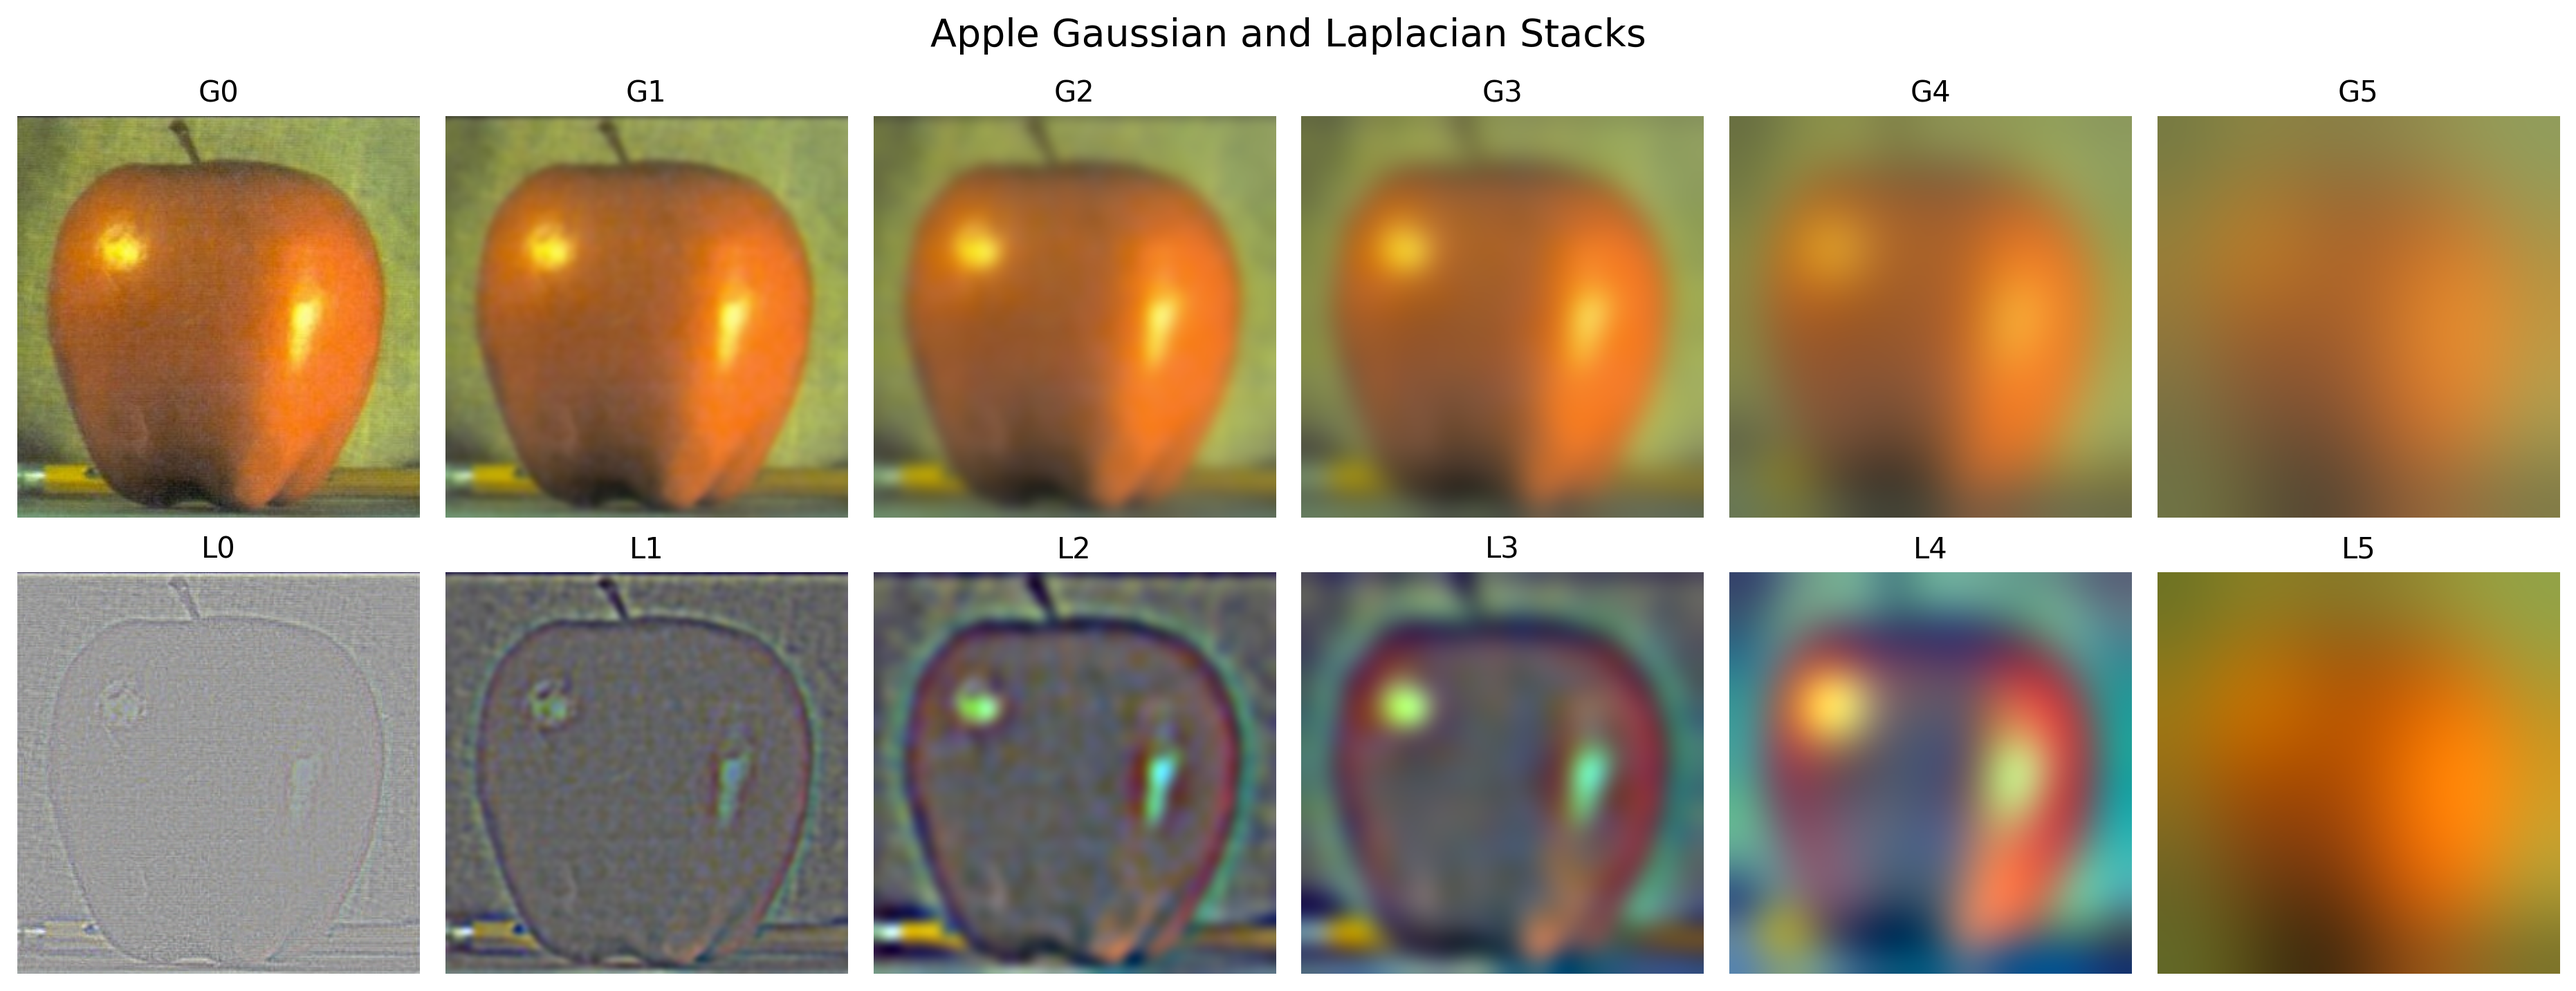
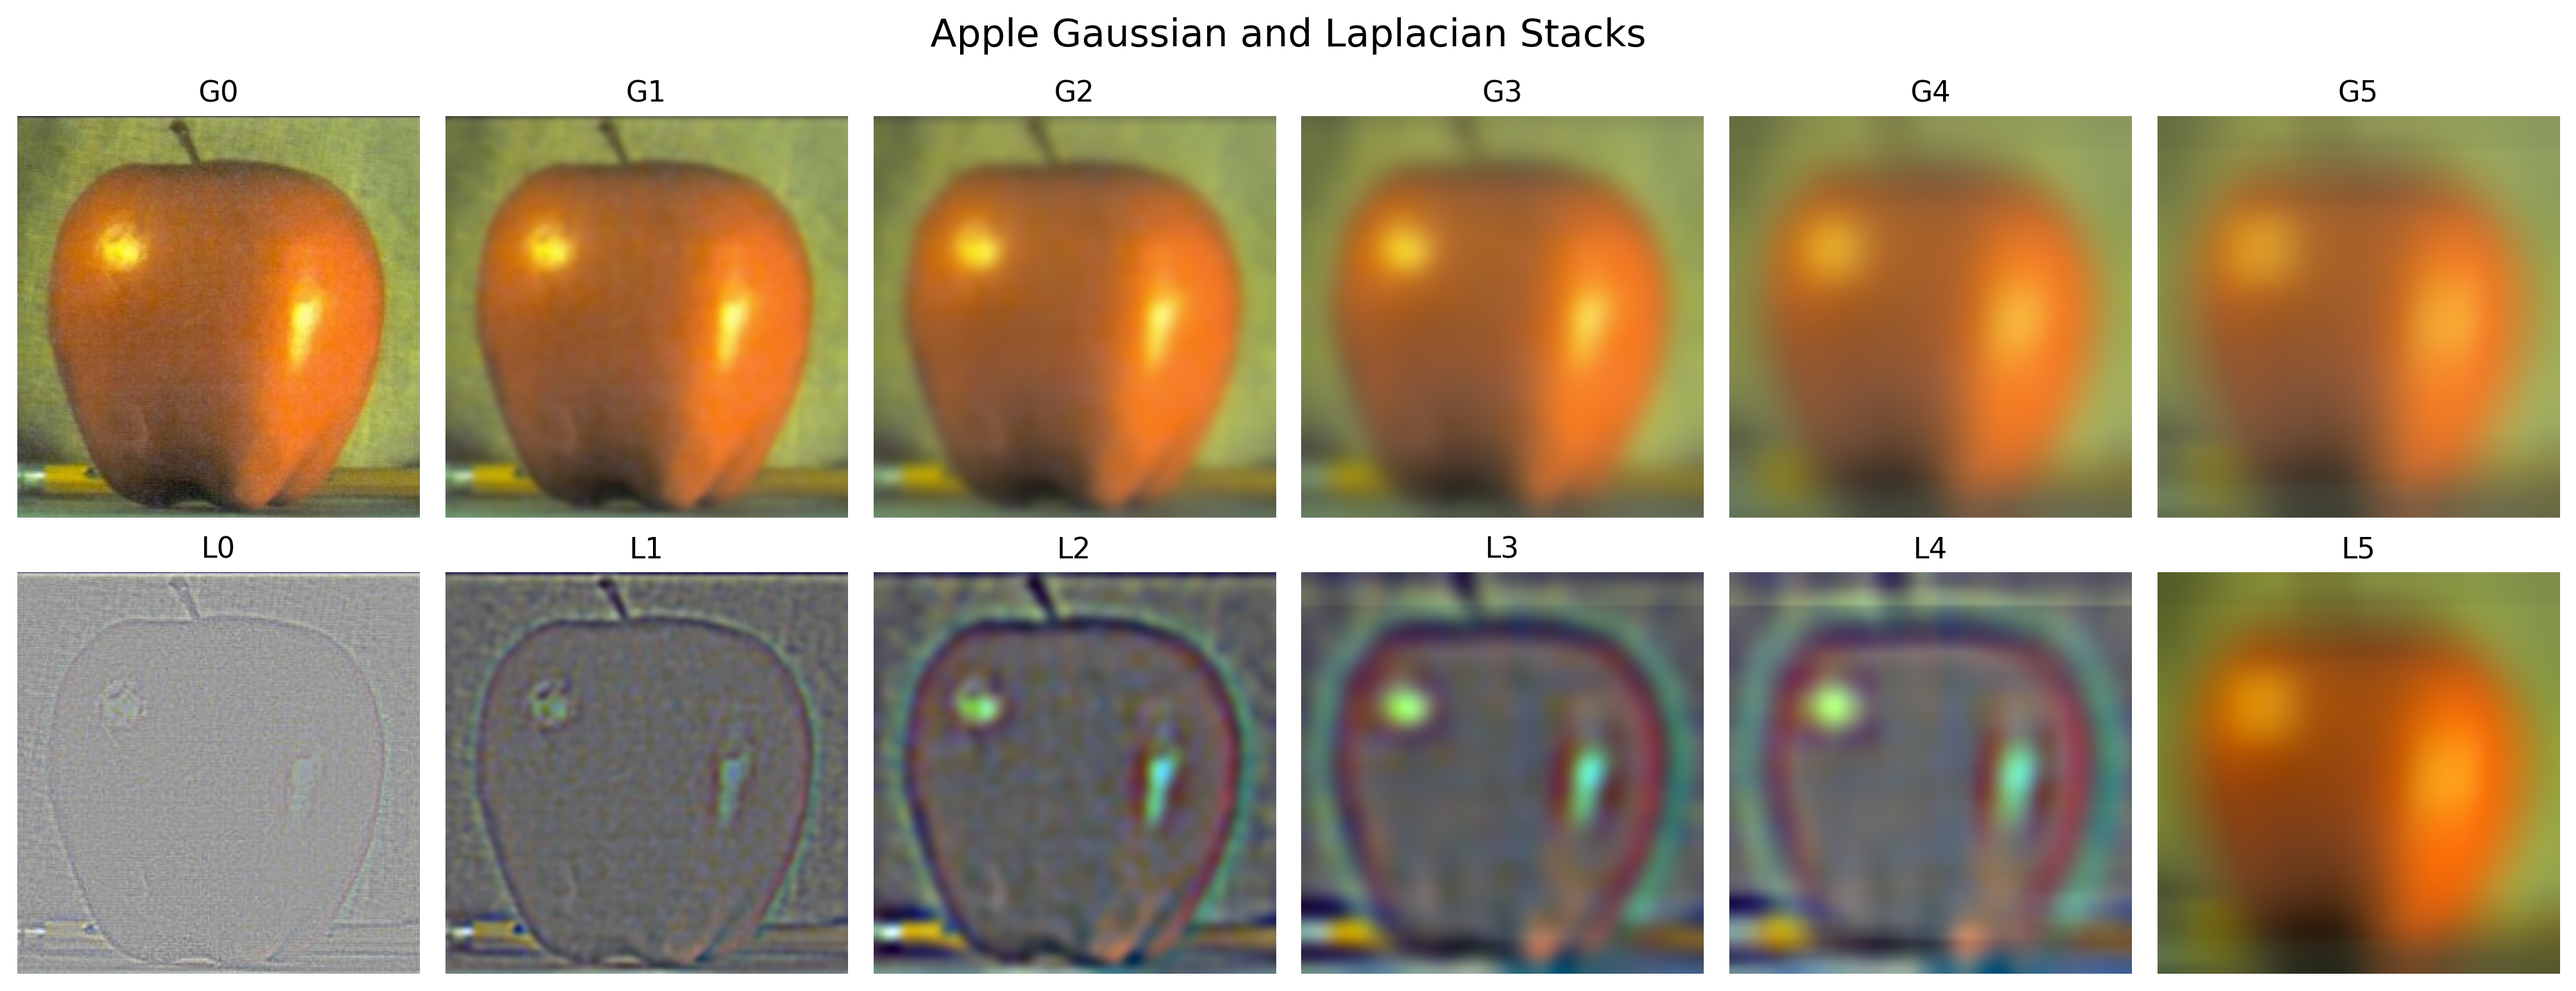
feat: project 2 Part 2.4

diff --git a/project_2/index.html b/project_2/index.html
@@ -895,33 +895,42 @@ gradient_magnitude_DoG_cameraman = np.sqrt(DoG_x_cameraman ** 2 + DoG_y_camerama
                     <span class="toggle-icon">▶</span> Gaussian Stack Implementation
                 </h4>
                 <div class="code-content" style="display: none;">
-                    <pre><code class="language-python">def build_gaussian_stack(image, levels=5, sigma_base=1):
+                    <pre><code class="language-python">def build_gaussian_stack(image, levels=5, sigma_base=1, max_kernel_size=51):
     stack = [image]
-    current = image.copy()
 
     for i in range(1, levels):
-        # Progressively increase sigma
         sigma = sigma_base * (2 ** i)
         kernel_size = int(2 * np.ceil(3 * sigma) + 1)
+        kernel_size = min(kernel_size, max_kernel_size)
         kernel = create_gaussian_kernel(kernel_size, sigma)
 
-        # Apply Gaussian blur (handle RGB channels)
-        if len(current.shape) == 3:
-            blurred = np.zeros_like(current)
+        # IMPORTANT: Always blur from the ORIGINAL image, not the previous level!
+        if len(image.shape) == 3:
+            blurred = np.zeros_like(image)
             for c in range(3):
                 blurred[:, :, c] = scipy.signal.convolve2d(
-                    current[:, :, c], kernel, mode='same', boundary='symm'
+                    image[:, :, c], kernel, mode='same', boundary='symm'
                 )
         else:
             blurred = scipy.signal.convolve2d(
-                current, kernel, mode='same', boundary='symm'
+                image, kernel, mode='same', boundary='symm'
             )
 
         stack.append(blurred)
-        current = blurred
 
     return stack</code></pre>
                 </div>
+            </div>
+
+            <div class="implementation-note" style="margin-top: 1rem;">
+                <h4>[Common Pitfall] Blur the <em>previous level</em> repeatedly</h4> 
+                <ul>
+                    <li>Level 1: Blur original with σ=2</li>
+                    <li>Level 2: Blur Level 1 with σ=4 → cumulative blur exceeds σ=4</li>
+                    <li>Level 3: Blur Level 2 with σ=8 → cumulative blur far exceeds σ=8</li>
+                    <li>Result: <strong>Compounding blur</strong> that grows much faster than exponential</li>
+                </ul>
+                <!-- <p><strong>Note:</strong> We also cap <code>kernel_size</code> at 51 to prevent excessively large kernels at high σ values.</p> -->
             </div>
 
             <h3>2.3.2 Building Laplacian Stack</h3>
@@ -968,11 +977,9 @@ gradient_magnitude_DoG_cameraman = np.sqrt(DoG_x_cameraman ** 2 + DoG_y_camerama
             <div class="observation-box">
                 <h4>Observations</h4>
                 <ul>
-                    <li><strong>Gaussian Stack:</strong> Each level becomes progressively more blurred while maintaining full resolution</li>
-                    <li><strong>Laplacian Stack:</strong> Each layer (except the last) captures a specific frequency band, appearing mostly gray with edges highlighted</li>
-                    <li><strong>Last Laplacian layer:</strong> Contains the low-frequency content (blurry version), identical to the last Gaussian layer</li>
-                    <li>These stacks will be used in Part 2.4 for seamless multi-resolution blending</li>
-                </ul>
+                    <li><strong>Gaussian Stack:</strong> Each level becomes more blurred while maintaining full resolution</li>
+                    <li><strong>Laplacian Stack:</strong> Each layer (except the last) <strong>captures a specific frequency band</strong>, appearing mostly gray with edges highlighted</li>
+                    <li><strong>Last Laplacian layer:</strong> Contains the low-frequency content (blurry version), identical to the last Gaussian layer</li>                </ul>
             </div>
 
         </section>
@@ -980,7 +987,203 @@ gradient_magnitude_DoG_cameraman = np.sqrt(DoG_x_cameraman ** 2 + DoG_y_camerama
         <!-- Part 2.4: Blending -->
         <section id="part2-4">
             <h2>Part 2.4: Multi-resolution Blending</h2>
-            <p>Coming soon...</p>
+
+            <p>Multi-resolution blending uses Laplacian stacks to seamlessly combine images at different frequency bands, avoiding harsh transitions. By blending each frequency level separately with a smoothly transitioning mask, we achieve natural-looking composites.</p>
+
+            <h3>2.4.1 Image Selection</h3>
+            <p>I selected three pairs of images to blend using different mask shapes:</p>
+
+            <div style="display: grid; grid-template-columns: 1fr 1fr 1fr; gap: 1.5rem; margin: 2rem 0;">
+                <!-- Apple + Orange -->
+                <div class="observation-box">
+                    <h4 style="text-align: center;">Apple + Orange</h4>
+                    <p>The classic oraple from project spec.</p>
+                    <div style="display: flex; flex-direction: column; gap: 0.75rem; margin-top: 1rem;">
+                        <figure style="margin: 0; text-align: center; margin-top: 4rem;">
+                            <img src="src/img/part2_4_apple.jpeg" alt="Apple" class="clickable" style="width: 60%; border-radius: 4px;">
+                            <figcaption style="font-size: 0.75rem; margin-top: 0.25rem;">Apple</figcaption>
+                        </figure>
+                        <figure style="margin: 0; text-align: center;">
+                            <img src="src/img/part2_4_orange.jpeg" alt="Orange" class="clickable" style="width: 60%; border-radius: 4px;">
+                            <figcaption style="font-size: 0.75rem; margin-top: 0.25rem;">Orange</figcaption>
+                        </figure>
+                    </div>
+                </div>
+
+                <!-- Jay Chou + Me -->
+                <div class="observation-box">
+                    <h4 style="text-align: center;">Jay Chou + Me</h4>
+                    <p>It will be a good idea to blend this picture again since it has similar background and position!</p>
+                    <div style="display: flex; flex-direction: column; gap: 0.75rem; margin-top: 1rem;">
+                        <figure style="margin: 0; text-align: center; margin-top:4rem;">
+                            <img src="src/img/part2_2_jaychou.jpg" alt="Jay Chou" class="clickable" style="width: 60%; border-radius: 4px;">
+                            <figcaption style="font-size: 0.75rem; margin-top: 0.25rem;">Jay Chou</figcaption>
+                        </figure>
+                        <figure style="margin: 0; text-align: center;">
+                            <img src="src/img/part2_2_me.jpg" alt="Me" class="clickable" style="width: 60%; border-radius: 4px;">
+                            <figcaption style="font-size: 0.75rem; margin-top: 0.25rem;">Me</figcaption>
+                        </figure>
+                    </div>
+                </div>
+
+                <!-- Campanile + Tree Trunk -->
+                <div class="observation-box">
+                    <h4 style="text-align: center;">Campanile + Tree Rings</h4>
+                    <p>I spent many days thinking about what to blend. Then while walking past the campanile, I realized: why not blend tree rings into the tower? It needs an irregular mask anyway!</p>
+                    <p style="font-size: 0.75rem; margin-top: 2rem; text-align: center;">(Photos sourced online)</p>
+                    <div style="display: flex; flex-direction: column; gap: 0.75rem; margin-top: 1rem;">
+                        <figure style="margin: 0; text-align: center;">
+                            <img src="src/img/part2_4_campantile.jpg" alt="Campanile" class="clickable" style="width: 60%; border-radius: 4px;">
+                            <figcaption style="font-size: 0.75rem; margin-top: 0.25rem;">Campanile</figcaption>
+                        </figure>
+                        <figure style="margin: 0; text-align: center;">
+                            <img src="src/img/part2_4_trunk.jpg" alt="Tree Trunk" class="clickable" style="width: 60%; border-radius: 4px;">
+                            <figcaption style="font-size: 0.75rem; margin-top: 0.25rem;">Tree Rings</figcaption>
+                        </figure>
+                    </div>
+                </div>
+            </div>
+
+            <h3>2.4.2 Implementation: Masks and Blending</h3>
+            <p>I implemented four types of masks for different blending scenarios:</p>
+
+            <div class="code-block collapsible">
+                <h4 class="code-toggle" onclick="toggleCode(this)">
+                    <span class="toggle-icon">▶</span> Mask Creation Functions
+                </h4>
+                <div class="code-content" style="display: none;">
+                    <pre><code class="language-python">def create_vertical_mask(shape, split_ratio=0.5):
+    mask = np.zeros(shape[:2])
+    split_col = int(shape[1] * split_ratio)
+    mask[:, :split_col] = 1.0
+    return mask
+
+def create_horizontal_mask(shape, split_ratio=0.5):
+    mask = np.zeros(shape[:2])
+    split_row = int(shape[0] * split_ratio)
+    mask[:split_row, :] = 1.0
+    return mask
+
+def create_circular_mask(shape, center=None, radius=None):
+    h, w = shape[:2]
+    if center is None:
+        center = (h // 2, w // 2)
+    if radius is None:
+        radius = min(h, w) // 3
+
+    Y, X = np.ogrid[:h, :w]
+    dist_from_center = np.sqrt((X - center[1])**2 + (Y - center[0])**2)
+    mask = (dist_from_center <= radius).astype(np.float64)
+    return mask
+
+def create_ellipse_mask(shape, center, radius_x, radius_y):
+    h, w = shape[:2]
+    Y, X = np.ogrid[:h, :w]
+
+    dist = ((X - center[1])**2 / radius_x**2 +
+            (Y - center[0])**2 / radius_y**2)
+
+    mask = (dist <= 1).astype(np.float64)
+
+    # Smooth the mask edges
+    from scipy.ndimage import gaussian_filter
+    mask = gaussian_filter(mask, sigma=5)
+
+    return mask</code></pre>
+                </div>
+            </div>
+
+            <div class="code-block collapsible">
+                <h4 class="code-toggle" onclick="toggleCode(this)">
+                    <span class="toggle-icon">▶</span> Multi-resolution Blending Function
+                </h4>
+                <div class="code-content" style="display: none;">
+                    <pre><code class="language-python">def blend_images_multiresolution(image1, image2, mask, levels=5, sigma_base=1, filename='temp.jpg'):
+    if len(mask.shape) == 3:
+        mask = mask[:, :, 0]
+
+    mask = mask.astype(np.float64)
+    if mask.max() > 1:
+        mask = mask / 255.0
+
+    # Build Gaussian stacks for both images and mask
+    gaussian_stack1 = build_gaussian_stack(image1, levels, sigma_base)
+    gaussian_stack2 = build_gaussian_stack(image2, levels, sigma_base)
+    gaussian_stack_mask = build_gaussian_stack(mask, levels, sigma_base)
+
+    # Build Laplacian stacks for both images
+    laplacian_stack1 = build_laplacian_stack(gaussian_stack1)
+    laplacian_stack2 = build_laplacian_stack(gaussian_stack2)
+
+    # Blend each level of the Laplacian stacks using the corresponding mask level
+    blended_laplacian = []
+    for i in range(levels):
+        if len(image1.shape) == 3:
+            mask_3d = np.stack([gaussian_stack_mask[i]] * 3, axis=2)
+        else:
+            mask_3d = gaussian_stack_mask[i]
+
+        blended = laplacian_stack1[i] * mask_3d + laplacian_stack2[i] * (1 - mask_3d)
+        blended_laplacian.append(blended)
+
+    # Reconstruct final image by summing all blended Laplacian levels
+    result = np.sum(blended_laplacian, axis=0)
+    result = np.clip(result, 0, 1)
+
+    plt.figure(figsize=(8, 8))
+    plt.imshow(result)
+    plt.axis('off')
+    plt.tight_layout()
+    plt.savefig(f'images/{filename}', dpi=250, bbox_inches='tight')
+    plt.close()
+
+    return result, laplacian_stack1, laplacian_stack2, blended_laplacian, gaussian_stack_mask</code></pre>
+                </div>
+            </div>
+
+            <h3>2.4.3 Apple + Orange (Vertical Mask)</h3>
+            <p><strong>Parameters:</strong> <code>create_vertical_mask(split_ratio=0.5)</code>, levels=6</p>
+
+            <div style="display: grid; grid-template-columns: 1fr 1fr; gap: 1.5rem; margin: 2rem 0; align-items: start;">
+                <figure style="margin: 0;">
+                    <img src="src/img/part2_4_final_1_oraple_process.png" alt="Apple Orange Process" class="clickable" style="width: 100%;">
+                    <figcaption>▲ Blending process: Laplacian stacks at each level combined using the mask</figcaption>
+                </figure>
+                <figure style="margin: 0; text-align: center">
+                    <img src="src/img/part2_4_final_1_oraple_result.png" alt="Apple Orange Result" class="clickable" style="width: 70%;">
+                    <figcaption>▲ The classic "Oraple" - seamlessly blended down the middle</figcaption>
+                </figure>
+            </div>
+
+            <h3>2.4.4 Jay Chou + Me (Horizontal Mask)</h3>
+            <p><strong>Parameters:</strong> <code>create_horizontal_mask(split_ratio=0.5)</code>, levels=6</p>
+
+            <div style="display: grid; grid-template-columns: 1fr 1fr; gap: 1.5rem; margin: 2rem 0; align-items: start;">
+                <figure style="margin: 0;">
+                    <img src="src/img/part2_4_final_2_jaychou_me_process.png" alt="Jay Chou Me Crop" class="clickable" style="width: 100%;">
+                    <figcaption>▲ Side-by-side comparison showing the blending transition</figcaption>
+                </figure>
+                <figure style="margin: 0; text-align: center;">
+                    <img src="src/img/part2_4_final_2_jaychou_me_crop.jpg" alt="Jay Chou Me Result" class="clickable" style="width: 60%;">
+                    <figcaption>▲ Jay Chou (top) blends seamlessly into childhood me (bottom)</figcaption>
+                </figure>
+            </div>
+
+            <h3>2.4.5 Campanile + Tree Rings (Ellipse Mask)</h3>
+            <p><strong>Parameters:</strong> Both images resized to 800×600, <code>create_ellipse_mask(center=(440, 290), radius_x=89, radius_y=121)</code>, levels=6</p>
+
+            <div style="display: grid; grid-template-columns: 1fr 1fr; gap: 1.5rem; margin: 2rem 0; align-items: start;">
+                <figure style="margin: 0;">
+                    <img src="src/img/part2_4_final_3_campanile_trunk_process.png" alt="Campanile Process" class="clickable" style="width: 100%;">
+                    <figcaption>▲ Blending process with elliptical mask centered on the clock</figcaption>
+                </figure>
+                <figure style="margin: 0; text-align: center">
+                    <img src="src/img/part2_4_final_3_campantile_trunk_result.png" alt="Campanile Result" class="clickable" style="width: 60%;">
+                    <figcaption>▲ Tree rings blended into the campanile using an elliptical mask - nature meets architecture!</figcaption>
+                </figure>
+            </div>
+
+
         </section>
     </main>
 
